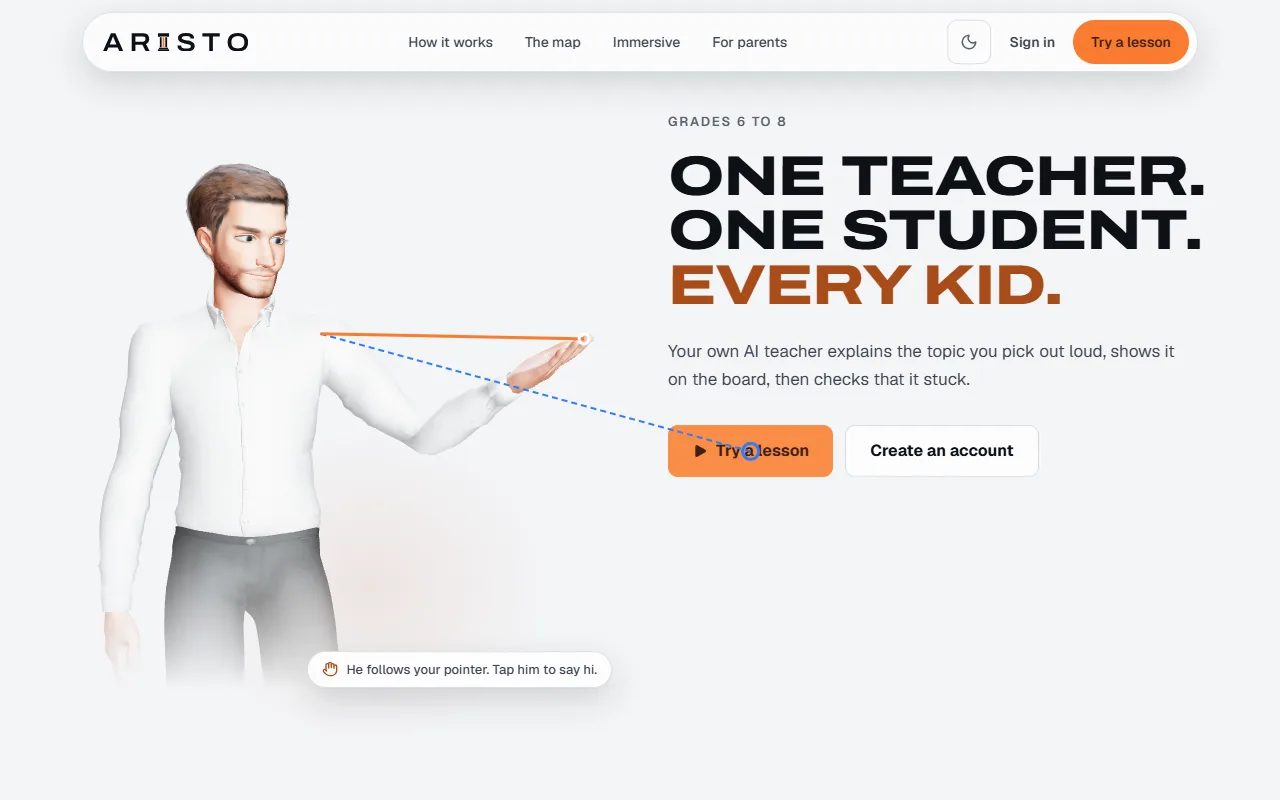
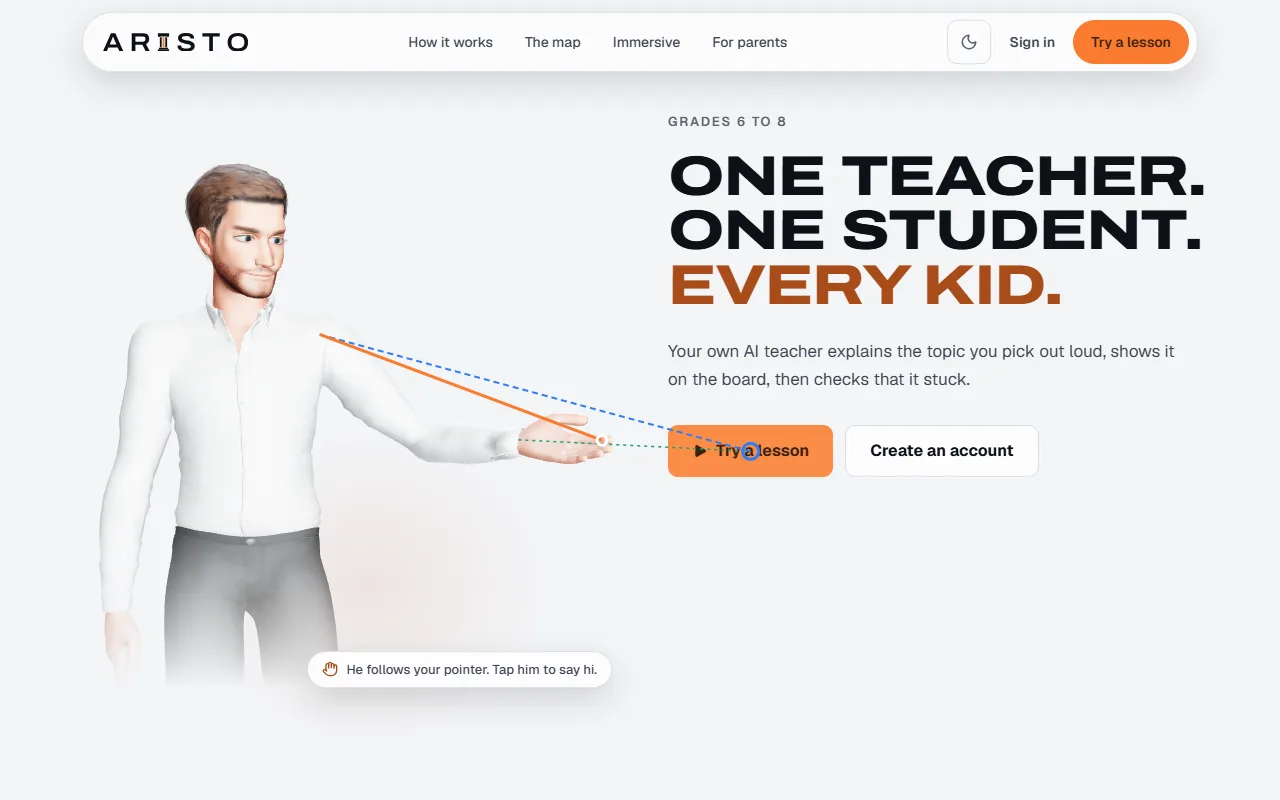
Aim Jake's offered palm at Try a lesson
After the pose each frame the shoulder and then the wrist turn, within
limits, so the offered hand points at the button his eyes are on. The
correction is weighted by how far the arm is raised, so it grows and
fades with the gesture, and it never compounds when the mixer skips a
bone. Teacher's driver gains an optional afterPose hook; the classroom
path is unchanged. Measured at the peak: reach 5.4 to 5.9 degrees and
hand 0.7 to 3.6 degrees from the button, at 1024 to 1440, both themes.

Changed region(s): [[0.25, 0.4062, 0.5, 0.5938], [0.1562, 0.2812, 0.2188, 0.3125], [0.2188, 0.25, 0.25, 0.2812]]

diff --git a/src/components/landing/stage/aim.ts b/src/components/landing/stage/aim.ts
@@ -1,0 +1,80 @@
+import { Quaternion, Vector3, type Object3D } from "three";
+import { damp } from "./timeline";
+
+/**
+ * Aims an offered hand at a point (V8.3b, the hero: Hmz wanted the open palm to point at Try a lesson). The clip
+ * (PresentModel) holds the hand out level at shoulder height; the button is lower. After the pose each frame, the
+ * shoulder turns so the line from it to the fingertip meets the point, then the wrist turns so the hand does too,
+ * which also tips the palm towards it. Both are limited, and weighted by how far the arm is raised, so the
+ * correction grows and fades with the gesture itself and never touches the arm at rest.
+ *
+ * A bone the mixer did not write this frame (its track dropped as rest) still holds what was written here, so it is
+ * put back to its clip value first; the correction never compounds (the same guard as Teacher's head look).
+ */
+
+/** How raised the arm is, from the sine of the shoulder-to-fingertip line's elevation (-1 hanging, 0 level). */
+export function raisedWeight(sinElevation: number): number {
+  const t = Math.min(1, Math.max(0, (sinElevation + 0.6) / 0.4));
+  return t * t * (3 - 2 * t);
+}
+
+/** The most the shoulder and the wrist may turn, in radians. */
+export const MAX_SHOULDER = (25 * Math.PI) / 180;
+export const MAX_WRIST = (30 * Math.PI) / 180;
+
+interface Held { clip: Quaternion; written: Quaternion; wrote: boolean }
+const held = (): Held => ({ clip: new Quaternion(), written: new Quaternion(), wrote: false });
+
+const _a = new Vector3(), _b = new Vector3(), _p = new Vector3(), _t = new Vector3();
+const _q = new Quaternion(), _qt = new Quaternion(), _qw = new Quaternion(), _qp = new Quaternion(), _id = new Quaternion();
+
+/** Turns `bone` (in world space) so the line from it to `end` points at `target`, by at most `max`, times `w`. */
+function turn(bone: Object3D, end: Object3D, target: Vector3, w: number, max: number) {
+  bone.getWorldPosition(_p);
+  end.getWorldPosition(_t);
+  _a.subVectors(_t, _p).normalize();
+  _b.subVectors(target, _p).normalize();
+  _qt.setFromUnitVectors(_a, _b);
+  const angle = 2 * Math.acos(Math.min(1, Math.abs(_qt.w)));
+  const k = angle > 1e-6 ? (Math.min(angle, max) / angle) * w : 0;
+  _q.copy(_id).slerp(_qt, k);
+  // World rotation onto the bone, back into its parent's space.
+  bone.getWorldQuaternion(_qw);
+  bone.parent!.getWorldQuaternion(_qp).invert();
+  bone.quaternion.copy(_qp.multiply(_q.multiply(_qw)));
+  bone.updateMatrixWorld(true);
+}
+
+export function createAim(root: Object3D, side: "L" | "R" = "L") {
+  const shoulder = root.getObjectByName(`CC_Base_${side}_Upperarm`);
+  const hand = root.getObjectByName(`CC_Base_${side}_Hand`);
+  const tip = root.getObjectByName(`CC_Base_${side}_Index3`);
+  const hs = held(), hh = held();
+  let weight = 0;
+
+  const restore = (bone: Object3D, h: Held) => {
+    if (h.wrote && bone.quaternion.equals(h.written)) bone.quaternion.copy(h.clip);
+    else h.clip.copy(bone.quaternion);
+    h.wrote = false;
+  };
+  const keep = (bone: Object3D, h: Held) => { h.written.copy(bone.quaternion); h.wrote = true; };
+
+  /** Each frame after the pose: aim at `target` while `active`, fading in and out over about a fifth of a second. */
+  return (target: Vector3 | null, active: boolean, delta: number) => {
+    if (!shoulder || !hand || !tip || !shoulder.parent || !hand.parent) return;
+    restore(shoulder, hs);
+    restore(hand, hh);
+    if (!active && weight < 1e-3) return;
+    // The mixer and the look moved the skeleton this frame; its world matrices are refreshed at render, so now.
+    root.updateMatrixWorld(true);
+    shoulder.getWorldPosition(_p);
+    tip.getWorldPosition(_t);
+    const sin = _t.sub(_p).normalize().y;
+    weight = damp(weight, active && target ? raisedWeight(sin) : 0, 12, delta);
+    if (weight < 1e-3 || !target) return;
+    turn(shoulder, tip, target, weight, MAX_SHOULDER);
+    turn(hand, tip, target, weight, MAX_WRIST);
+    keep(shoulder, hs);
+    keep(hand, hh);
+  };
+}

diff --git a/src/components/landing/stage/aim.test.ts b/src/components/landing/stage/aim.test.ts
@@ -1,0 +1,54 @@
+import { describe, expect, it } from "vitest";
+import { Bone, Group, Vector3 } from "three";
+import { createAim, raisedWeight } from "./aim";
+
+describe("raisedWeight", () => {
+  it("is 0 for a hanging arm and 1 for a level one, rising smoothly between", () => {
+    expect(raisedWeight(-1)).toBe(0);
+    expect(raisedWeight(-0.6)).toBe(0);
+    expect(raisedWeight(-0.2)).toBe(1);
+    expect(raisedWeight(0)).toBe(1);
+    expect(raisedWeight(-0.4)).toBeCloseTo(0.5);
+  });
+});
+
+/** A level arm along +x: shoulder at the origin, hand at 0.5, fingertip at 0.7. */
+function arm() {
+  const root = new Group();
+  const shoulder = new Bone(); shoulder.name = "CC_Base_L_Upperarm";
+  const hand = new Bone(); hand.name = "CC_Base_L_Hand"; hand.position.set(0.5, 0, 0);
+  const tip = new Bone(); tip.name = "CC_Base_L_Index3"; tip.position.set(0.2, 0, 0);
+  root.add(shoulder); shoulder.add(hand); hand.add(tip);
+  root.updateMatrixWorld(true);
+  return { root, shoulder, hand, tip };
+}
+const reachAngle = (a: ReturnType<typeof arm>, target: Vector3) => {
+  a.root.updateMatrixWorld(true);
+  const s = a.shoulder.getWorldPosition(new Vector3()), t = a.tip.getWorldPosition(new Vector3());
+  return t.sub(s).angleTo(target.clone().sub(s)) * (180 / Math.PI);
+};
+
+describe("createAim", () => {
+  const target = new Vector3(1, -0.2, 0); // about 11 degrees below the level arm
+  it("turns a raised arm to the target once it has faded in", () => {
+    const a = arm();
+    const step = createAim(a.root);
+    for (let i = 0; i < 60; i++) step(target, true, 1 / 60);
+    expect(reachAngle(a, target)).toBeLessThan(1);
+  });
+  it("never compounds when the mixer does not rewrite the bones", () => {
+    const a = arm();
+    const step = createAim(a.root);
+    for (let i = 0; i < 120; i++) step(target, true, 1 / 60);
+    const once = a.shoulder.quaternion.clone();
+    for (let i = 0; i < 60; i++) step(target, true, 1 / 60);
+    expect(a.shoulder.quaternion.angleTo(once)).toBeLessThan(1e-6);
+  });
+  it("leaves the arm as posed when inactive, and gives it back after fading out", () => {
+    const a = arm();
+    const step = createAim(a.root);
+    for (let i = 0; i < 60; i++) step(target, true, 1 / 60);
+    for (let i = 0; i < 60; i++) step(target, false, 1 / 60);
+    expect(reachAngle(a, new Vector3(1, 0, 0))).toBeLessThan(0.5);
+  });
+});

diff --git a/src/components/landing/stage/LandingStage.tsx b/src/components/landing/stage/LandingStage.tsx
@@ -19,6 +19,7 @@ import { AVATAR_ASSETS, Teacher, type LookTargets, type TeacherDriver } from "@/
 import { clockOf } from "../play";
 import { SLOW_SAMPLE_FRAMES, isSlow } from "./gate";
 import { host, setLive, subscribe } from "./host";
+import { createAim } from "./aim";
 import { HeartBuild } from "./HeartBuild";
 import { Probe } from "./Probe";
 import { GESTURE_Z, HEART, VIEWER_Z, WAVE_COOLDOWN_S, signalsFor } from "./scripts";
@@ -133,6 +134,8 @@ function SpotTeacher({ spot, warm, greet, lookTargets }: { spot: SpotId; warm: b
   const { camera, gl } = useThree();
   const viewer = useMemo(() => new Vector3(), []);
   const ray = useMemo(() => new Vector3(), []);
+  const aim = useRef<ReturnType<typeof createAim> | null>(null);
+  const aimAt = useMemo(() => new Vector3(), []);
   const driver = useMemo<TeacherDriver>(() => ({
     signals: () => {
       const now = performance.now() / 1000;
@@ -148,6 +151,13 @@ function SpotTeacher({ spot, warm, greet, lookTargets }: { spot: SpotId; warm: b
       return s;
     },
     viseme: visemeNow,
+    // At the hero, while he offers his hand to Try a lesson, the hand is aimed at it (aim.ts): the same point his
+    // head turns to, so the palm, the reach and the gaze all go to the button.
+    afterPose: spot === "hero" ? (root, delta) => {
+      aim.current ??= createAim(root);
+      const look = shared.hero.look;
+      aim.current(aimAt.fromArray(HERO_LOOK), !!look && performance.now() < look.until, delta);
+    } : undefined,
     clipPacks: warm,
     // At the hero and the close he looks at the reader's pointer: the ray from the eye through it, where it crosses
     // a plane in front of him (VIEWER_Z). Elsewhere, and with no mouse, the camera, as in a lesson.
@@ -172,7 +182,7 @@ function SpotTeacher({ spot, warm, greet, lookTargets }: { spot: SpotId; warm: b
       if (look && spot === "hero") viewer.toArray(HERO_LOOK);
       return viewer;
     },
-  }), [spot, warm, mayWave, hold, camera, gl, viewer, ray]);
+  }), [spot, warm, mayWave, hold, camera, gl, viewer, ray, aimAt]);
 
   useFrame(() => {
     if (!warm || liveAt.current !== null) return;

diff --git a/src/components/three/Teacher.tsx b/src/components/three/Teacher.tsx
@@ -8,7 +8,7 @@ import { useFrame } from "@react-three/fiber";
 import { Component, Suspense, useCallback, useEffect, useLayoutEffect, useMemo, useRef, useState, type ReactNode } from "react";
 import {
   AnimationClip, Group, LoopOnce, LoopRepeat, MathUtils, MeshStandardMaterial, Quaternion, SRGBColorSpace, Vector3,
-  type AnimationAction, type Bone, type SkinnedMesh,
+  type AnimationAction, type Bone, type Object3D, type SkinnedMesh,
 } from "three";
 import { getCurrentViseme } from "@/hooks/useTTS";
 import {
@@ -379,6 +379,11 @@ export interface TeacherDriver {
    * the reader's pointer). Unset or null: the camera, as in a lesson.
    */
   viewer?: () => Vector3 | null;
+  /**
+   * Runs last each frame, on the posed skeleton (the clips, the director's layers, the look and the eyes applied),
+   * before the render (V8.3b: the landing aims an offered hand at a button). Unset: nothing.
+   */
+  afterPose?: (root: Object3D, delta: number) => void;
 }
 
 interface TeacherProps {
@@ -846,6 +851,7 @@ export function Teacher({
     applyLook(out.look, viewer, delta);
     faceRef.current!.hint = out.face;
     applyEyes(out.look, viewer, now, delta);
+    drive?.afterPose?.(scene, delta);
   });
 
   // Morph targets per frame

diff --git a/.claude/eval/2026-09-30-v8-3b-landing/README.md b/.claude/eval/2026-09-30-v8-3b-landing/README.md
@@ -113,3 +113,15 @@ demo's); the lesson's picture is an infographic; spread the topics (volcano, hea
   width (`need` in `spots.ts`, unit-tested). The hero still was recaptured to match.
 - **Checks** (`check.json`): 360 to 1440, both themes. 0 AA failures (minimum 4.74 light, 6.42 dark), 0 targets
   under 44px, 0 overflow.
+
+### Round 4 (Hmz: the palm should point at the button)
+
+- **Aim** (`src/components/landing/stage/aim.ts`, unit-tested): after the pose each frame, the shoulder turns (at
+  most 25 degrees) so the shoulder-to-fingertip line meets the button, then the wrist (at most 30) so the hand does,
+  which tips the palm towards it.
+  - It is weighted by how far the arm is raised, so it grows and fades with the offer and never moves the arm at rest.
+  - It never compounds when the mixer skips a bone.
+  - It runs through a new optional `afterPose` on Teacher's driver; the classroom path is unchanged.
+- **Measured** (`peaks.json` heroOffer, `hero-offer-peak*.webp`): at the peak, shoulder to fingertip is 5.4 to 5.9
+  degrees from the line to the button's centre, and wrist to fingertip 0.7 to 3.6. That holds at 1024, 1280 and 1440
+  in light, and at 1280 in dark (was 14 and not measured).
